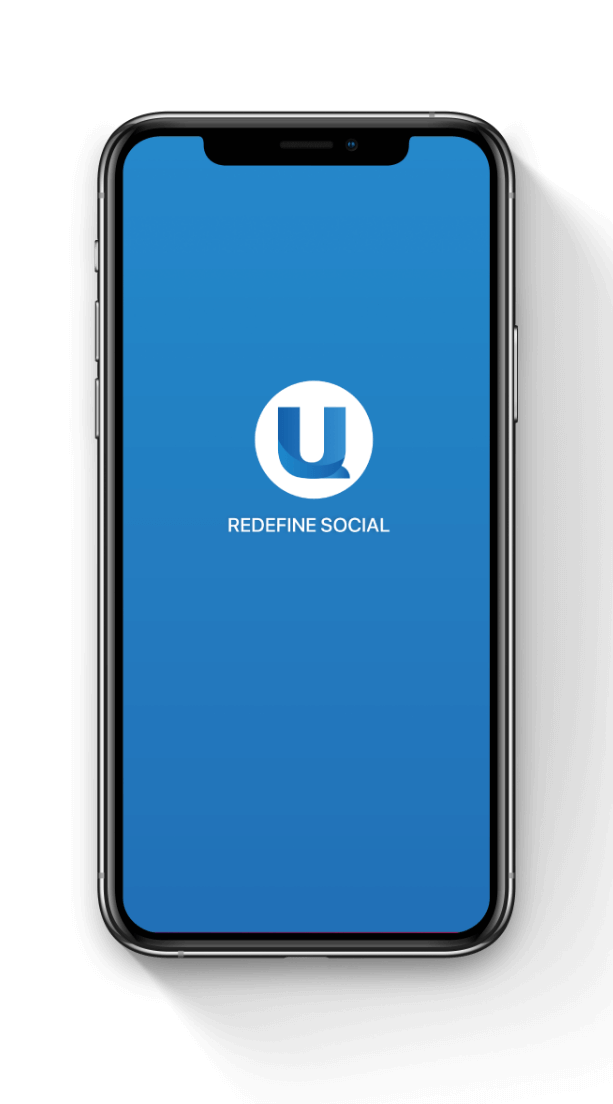
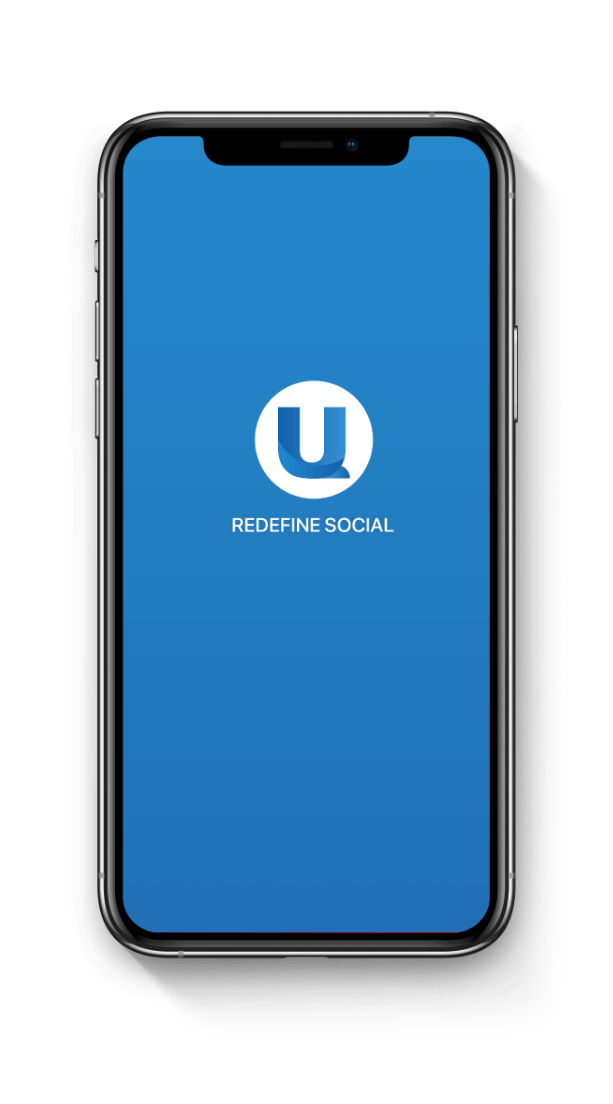
fix shadow

Changed region(s): [[0.8679, 0.1848, 1.0, 0.8315], [0.3719, 0.462, 0.6509, 0.4928]]

diff --git a/resources/views/index.blade.php b/resources/views/index.blade.php
@@ -24,7 +24,7 @@
                          </div>--}}
                      </div>
                      <div class="home1-txt-title-img">
-                         <img src="{{url('/images/home-phone1.png?v=1')}}" alt="utu social platform">
+                         <img src="{{url('/images/home-phone1.png?v=2')}}" alt="utu social platform">
                      </div>
                      <h1 class="home1-txt-title2">
                          social
